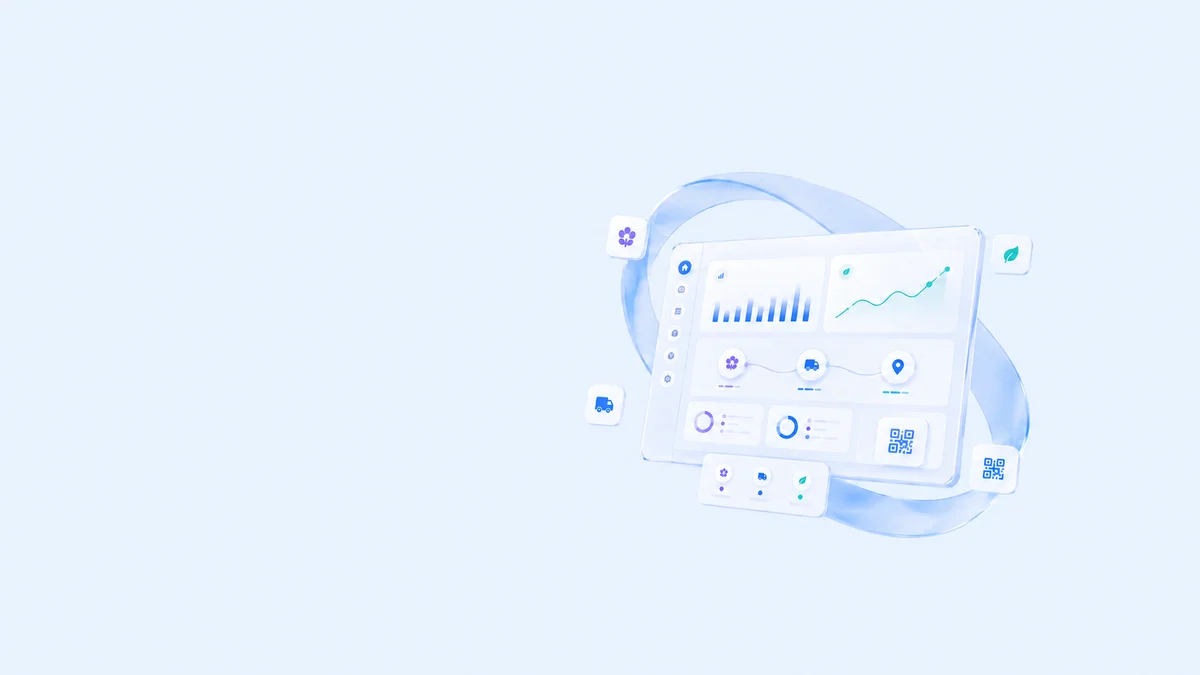
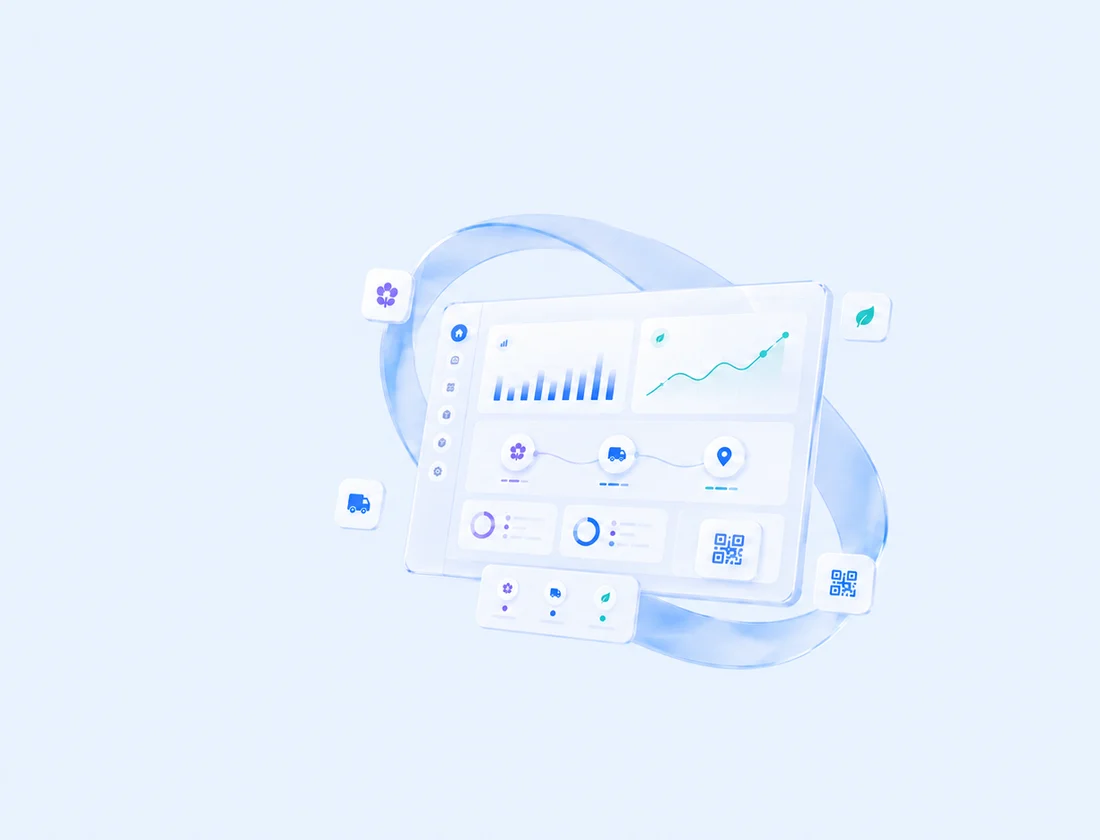
KYN login: crop hero left margin so device is centered + full-size (not shrunk)

diff --git a/src/app/(auth)/kyn/login/page.tsx b/src/app/(auth)/kyn/login/page.tsx
@@ -30,7 +30,7 @@ export default function KynLoginPage() {
           <img
             src="/figma/kyn-login-hero.webp"
             alt="ภาพรวมระบบ KYN"
-            className="max-h-full w-full object-contain"
+            className="h-full w-full object-cover object-center"
           />
         </div>
 
